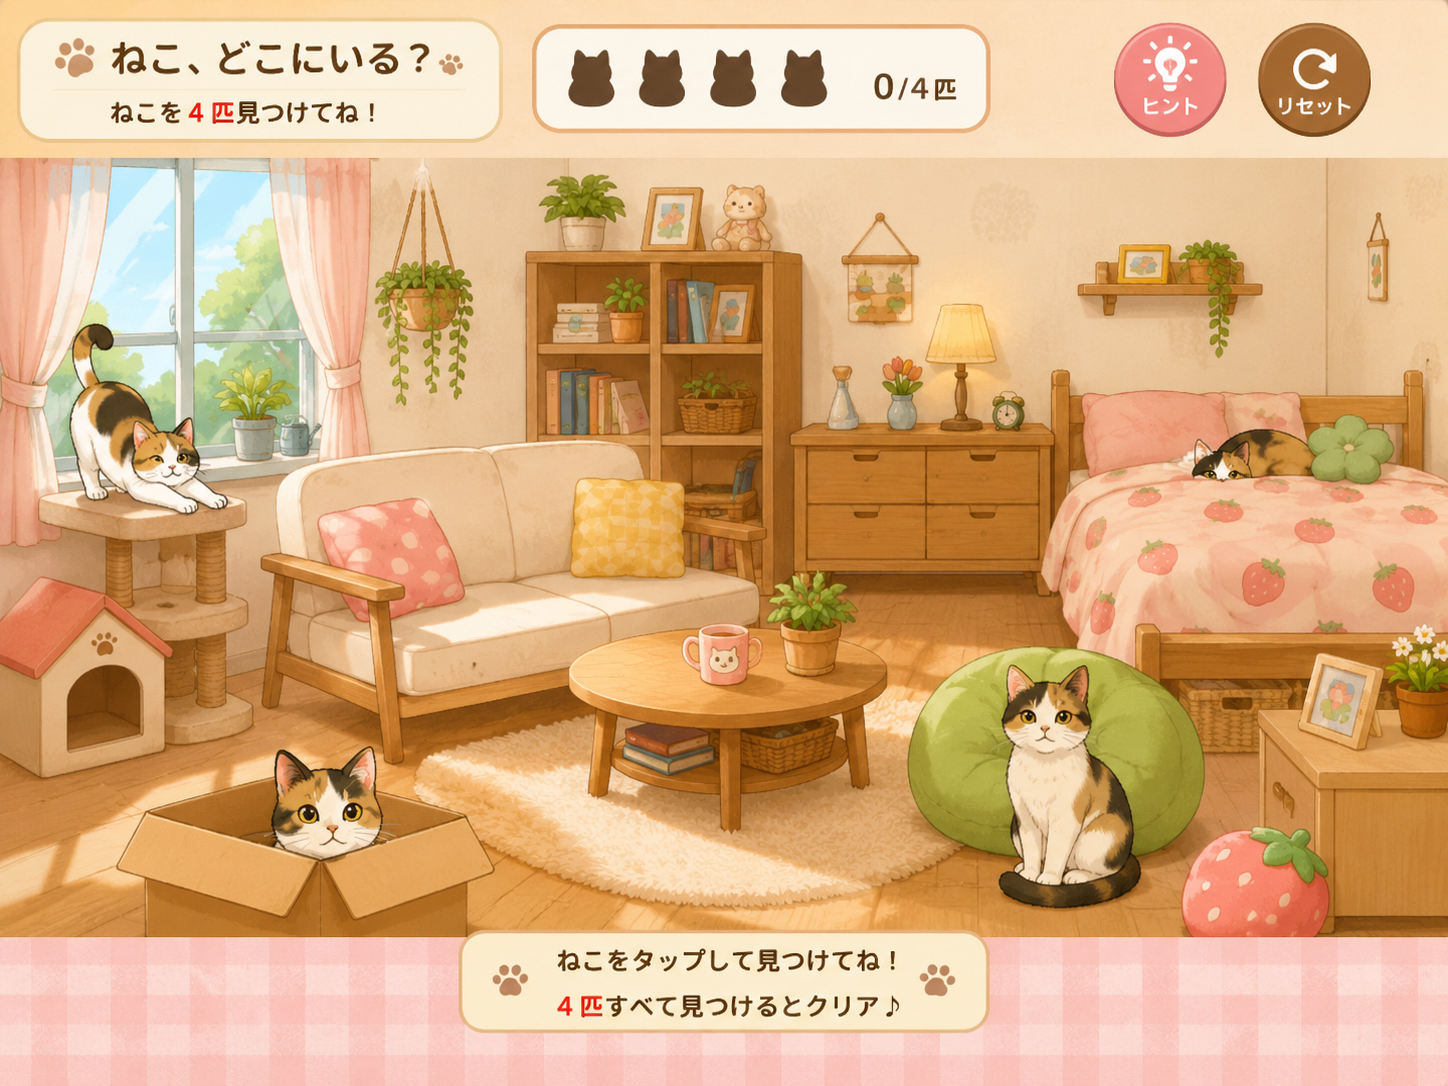
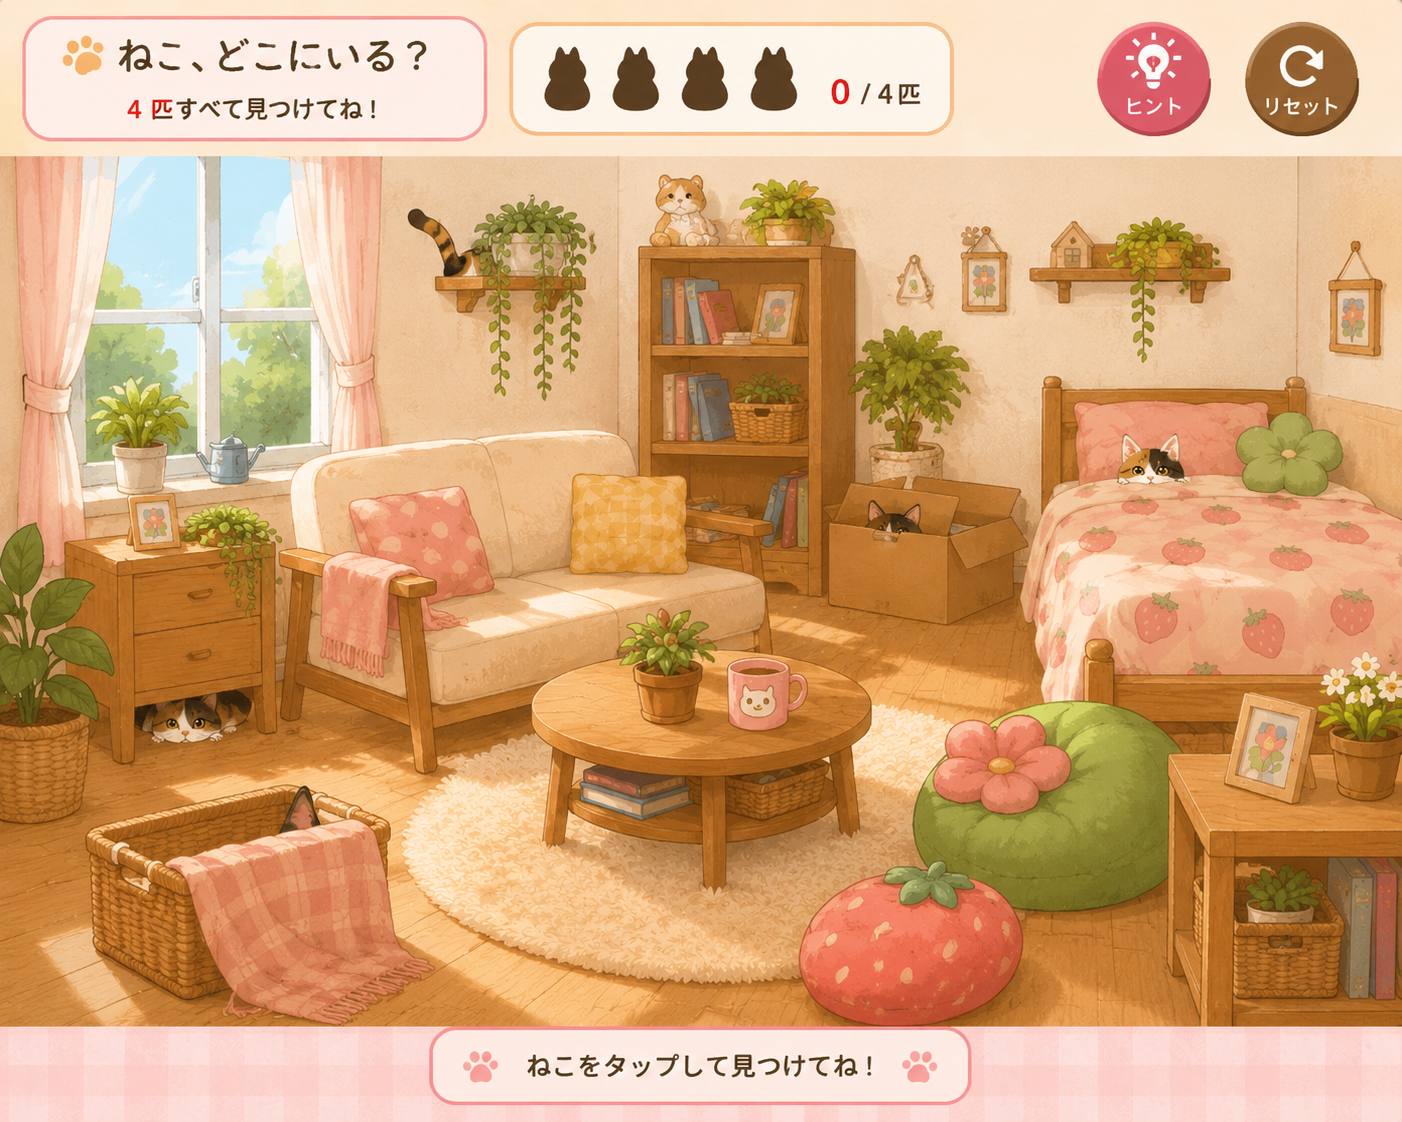
Add files via upload

diff --git a/script.js b/script.js
@@ -1,87 +1,83 @@
-const rooms=[
-  {key:'bedroom',name:'寝室',furniture:`
-    <div class="furniture window"><div class="curtain l"></div><div class="curtain r"></div><div class="windowSeat"></div></div>
-    <div class="furniture bed"><div class="back"></div><div class="pillow"></div><div class="blanket"></div></div>
-    <div class="furniture bookshelf"><div class="bookrow r1"><span></span><span></span><span></span><span></span></div><div class="bookrow r2"><span></span><span></span><span></span><span></span></div></div>
-    <div class="furniture catTree"><div class="pole a"></div><div class="pole b"></div><div class="platform top"></div><div class="platform mid"></div></div>
-    <div class="furniture catHouse"></div>`,
-    spots:[
-      {x:8,y:61,w:28,h:14,catX:20,catY:60},{x:39,y:28,w:34,h:13,catX:47,catY:30},{x:76,y:18,w:18,h:15,catX:80,catY:16},
-      {x:79,y:50,w:18,h:14,catX:82,catY:49},{x:62,y:45,w:13,h:13,catX:64,catY:42},{x:6,y:76,w:12,h:10,catX:7,catY:70},
-      {x:75,y:70,w:16,h:12,catX:77,catY:65},{x:45,y:68,w:18,h:10,catX:48,catY:63},{x:25,y:44,w:14,h:12,catX:25,catY:38},{x:86,y:34,w:11,h:13,catX:84,catY:31}
-    ]},
-  {key:'living',name:'リビング',furniture:`
-    <div class="furniture window"><div class="curtain l"></div><div class="curtain r"></div><div class="windowSeat"></div></div>
-    <div class="furniture sofa"></div><div class="furniture tv"></div><div class="furniture cabinet"></div><div class="furniture boxItem"></div>
-    <div class="furniture plant"><div class="leaf a"></div><div class="leaf b"></div><div class="leaf c"></div><div class="pot"></div></div>
-    <div class="furniture catTree"><div class="pole a"></div><div class="pole b"></div><div class="platform top"></div><div class="platform mid"></div></div>`,
-    spots:[
-      {x:9,y:50,w:35,h:14,catX:18,catY:47},{x:7,y:70,w:18,h:12,catX:9,catY:66},{x:48,y:50,w:26,h:11,catX:52,catY:45},
-      {x:52,y:24,w:20,h:20,catX:55,catY:23},{x:82,y:67,w:15,h:14,catX:84,catY:62},{x:72,y:49,w:18,h:20,catX:75,catY:45},
-      {x:64,y:18,w:14,h:13,catX:65,catY:14},{x:31,y:38,w:13,h:13,catX:31,catY:34},{x:85,y:35,w:11,h:12,catX:84,catY:31},{x:42,y:68,w:18,h:10,catX:45,catY:64}
-    ]},
-  {key:'kitchen',name:'キッチン',furniture:`
-    <div class="furniture kitchen"></div><div class="furniture fridge"></div><div class="furniture table"></div><div class="furniture chair"></div><div class="furniture basket"></div>
-    <div class="furniture plant"><div class="leaf a"></div><div class="leaf b"></div><div class="leaf c"></div><div class="pot"></div></div>`,
-    spots:[
-      {x:6,y:42,w:38,h:17,catX:17,catY:38},{x:8,y:67,w:20,h:13,catX:10,catY:63},{x:28,y:69,w:14,h:11,catX:29,catY:63},
-      {x:44,y:57,w:29,h:16,catX:51,catY:52},{x:58,y:42,w:12,h:16,catX:57,catY:39},{x:78,y:24,w:17,h:40,catX:80,catY:41},
-      {x:78,y:69,w:17,h:12,catX:80,catY:64},{x:55,y:72,w:18,h:11,catX:58,catY:66},{x:34,y:29,w:13,h:13,catX:34,catY:25},{x:67,y:22,w:12,h:15,catX:66,catY:20}
-    ]}
+const stages=[
+  {name:'寝室',img:'room1.png',spots:[
+    {x:20,y:45,w:14,h:14,cx:23,cy:39},{x:27,y:71,w:10,h:8,cx:25,cy:65},{x:45,y:29,w:12,h:11,cx:45,cy:28},{x:60,y:29,w:10,h:12,cx:59,cy:27},
+    {x:70,y:41,w:11,h:10,cx:71,cy:36},{x:82,y:42,w:13,h:12,cx:82,cy:39},{x:86,y:55,w:10,h:11,cx:86,cy:52},{x:79,y:12,w:13,h:12,cx:79,cy:10},
+    {x:63,y:16,w:15,h:14,cx:65,cy:13},{x:32,y:54,w:17,h:13,cx:34,cy:51},{x:53,y:56,w:14,h:12,cx:54,cy:53},{x:12,y:62,w:14,h:12,cx:13,cy:57}
+  ]},
+  {name:'リビング',img:'room2.png',spots:[
+    {x:3,y:28,w:14,h:17,cx:5,cy:28},{x:18,y:68,w:17,h:14,cx:19,cy:64},{x:64,y:58,w:15,h:18,cx:66,cy:54},{x:77,y:35,w:13,h:10,cx:78,cy:31},
+    {x:30,y:40,w:18,h:12,cx:33,cy:36},{x:45,y:48,w:14,h:12,cx:47,cy:43},{x:58,y:29,w:13,h:13,cx:59,cy:26},{x:86,y:69,w:12,h:12,cx:86,cy:63},
+    {x:8,y:58,w:12,h:10,cx:8,cy:53},{x:70,y:17,w:14,h:13,cx:71,cy:13},{x:40,y:69,w:17,h:10,cx:43,cy:64},{x:52,y:63,w:14,h:12,cx:53,cy:58}
+  ]},
+  {name:'キッチン',img:'room3.png',spots:[
+    {x:26,y:65,w:9,h:8,cx:25,cy:64},{x:45,y:31,w:10,h:10,cx:45,cy:30},{x:65,y:22,w:12,h:13,cx:66,cy:18},{x:82,y:52,w:12,h:11,cx:82,cy:49},
+    {x:88,y:72,w:10,h:10,cx:88,cy:69},{x:70,y:11,w:9,h:12,cx:70,cy:8},{x:14,y:20,w:12,h:10,cx:15,cy:15},{x:56,y:64,w:14,h:10,cx:57,cy:59},
+    {x:40,y:50,w:13,h:11,cx:40,cy:46},{x:76,y:64,w:13,h:12,cx:77,cy:59},{x:7,y:55,w:13,h:12,cx:8,cy:50},{x:60,y:41,w:12,h:11,cx:61,cy:36}
+  ]}
 ];
 
-const poses=['sit','stretch','peek','tailonly','loaf','boxpose','sit','peek','stretch','loaf'];
-let roomIndex=0,found=0,total=4,startTime=0,timerId=null,gameStarted=false;
-const scene=document.getElementById('scene'),roomLayer=document.getElementById('roomLayer'),spotLayer=document.getElementById('spotLayer'),catLayer=document.getElementById('catLayer');
-const stageName=document.getElementById('stageName'),foundEl=document.getElementById('found'),timerEl=document.getElementById('timer'),message=document.getElementById('message'),badges=document.getElementById('badges');
-const startPanel=document.getElementById('startPanel'),clearPanel=document.getElementById('clearPanel'),clearText=document.getElementById('clearText'),clearTitle=document.getElementById('clearTitle');
+const poses=['pose1','pose2','pose3','pose4','pose5','pose6','pose7','pose8','pose9','pose10'];
+let stage=0,found=0,total=4,start=0,timer=null,started=false;
+
+const room=document.getElementById('room'),spotsEl=document.getElementById('spots'),catsEl=document.getElementById('cats'),fx=document.getElementById('fx');
+const stageNow=document.getElementById('stageNow'),foundEl=document.getElementById('found'),timerEl=document.getElementById('timer'),message=document.getElementById('message'),poseList=document.getElementById('poseList');
+const startPanel=document.getElementById('startPanel'),clearPanel=document.getElementById('clearPanel'),clearTitle=document.getElementById('clearTitle'),clearText=document.getElementById('clearText');
 document.getElementById('total').textContent=total;
 
-function shuffle(a){return [...a].sort(()=>Math.random()-0.5)}
-function choice(a){return a[Math.floor(Math.random()*a.length)]}
+function shuffle(arr){return [...arr].sort(()=>Math.random()-0.5)}
+function pick(arr){return arr[Math.floor(Math.random()*arr.length)]}
+function timeText(ms){const sec=ms/1000;const m=Math.floor(sec/60);const s=(sec%60).toFixed(2).padStart(5,'0');return String(m).padStart(2,'0')+':'+s}
+function startTimer(){clearInterval(timer);start=performance.now();timer=setInterval(()=>timerEl.textContent=timeText(performance.now()-start),40)}
+function stopTimer(){clearInterval(timer)}
+function drawPoseDots(){poseList.innerHTML='';for(let i=0;i<total;i++){poseList.appendChild(document.createElement('span'))}}
+
 function makeCat(kind,pose){
   const cat=document.createElement('div');
   cat.className=`cat ${kind} ${pose}`;
-  cat.innerHTML=`<div class="tail"></div><div class="body"></div><div class="head"><div class="ear l"></div><div class="ear r"></div><div class="eye l"></div><div class="eye r"></div><div class="nose"></div><div class="spotmark"></div><div class="patch p1"></div><div class="patch p2"></div></div>`;
+  cat.innerHTML=`<div class="tail"></div><div class="body"></div><div class="head"><div class="ear l"></div><div class="ear r"></div><div class="eye l"></div><div class="eye r"></div><div class="nose"></div><div class="mouth">ω</div><div class="ruiMark"></div><div class="patch a"></div><div class="patch b"></div><div class="patch c"></div></div>`;
   return cat;
 }
-function drawBadges(){badges.innerHTML='';for(let i=0;i<total;i++){badges.appendChild(document.createElement('span'))}}
-function setTimer(on){clearInterval(timerId); if(on){startTime=performance.now();timerId=setInterval(()=>{timerEl.textContent=((performance.now()-startTime)/1000).toFixed(2)},50)}}
-function loadRoom(){
-  const r=rooms[roomIndex];
-  scene.className=`scene ${r.key}`;
-  roomLayer.innerHTML=r.furniture;
-  spotLayer.innerHTML=''; catLayer.innerHTML='';
-  stageName.textContent=r.name; found=0; foundEl.textContent=0; message.textContent='隠れそうな場所をタップしてね。';
-  drawBadges(); clearPanel.classList.add('hidden'); setTimer(true);
-  const selected=shuffle(r.spots).slice(0,total);
-  selected.forEach((s,i)=>{
-    const spot=document.createElement('button');
-    spot.className='spot';
-    spot.style.left=s.x+'%';spot.style.top=s.y+'%';spot.style.width=s.w+'%';spot.style.height=s.h+'%';
+
+function sparkle(x,y){
+  const s=document.createElement('div');
+  s.className='spark';s.textContent='✨';s.style.left=x+'px';s.style.top=y+'px';
+  fx.appendChild(s);setTimeout(()=>s.remove(),800);
+}
+
+function loadStage(){
+  const data=stages[stage];
+  found=0;foundEl.textContent=0;stageNow.textContent=stage+1;room.src=data.img;
+  spotsEl.innerHTML='';catsEl.innerHTML='';fx.innerHTML='';clearPanel.classList.add('hidden');drawPoseDots();
+  message.textContent=`${data.name}：4匹を探してね。`;
+  startTimer();
+  const chosen=shuffle(data.spots).slice(0,total);
+  chosen.forEach((sp,i)=>{
+    const btn=document.createElement('button');
+    btn.className='spot';
+    btn.style.left=sp.x+'%';btn.style.top=sp.y+'%';btn.style.width=sp.w+'%';btn.style.height=sp.h+'%';
     const kind=Math.random()<0.5?'rui':'mai';
-    const pose=choice(poses);
-    const cat=makeCat(kind,pose);
-    cat.style.left=s.catX+'%';cat.style.top=s.catY+'%';
-    catLayer.appendChild(cat);
-    spot.addEventListener('click',()=>{
-      if(spot.disabled)return;
-      spot.disabled=true;
-      cat.classList.add('show');
-      found++; foundEl.textContent=found;
-      badges.children[found-1].classList.add('on');
+    const cat=makeCat(kind,pick(poses));
+    cat.style.left=sp.cx+'%';cat.style.top=sp.cy+'%';
+    catsEl.appendChild(cat);
+    btn.addEventListener('click',()=>{
+      if(btn.disabled)return;
+      btn.disabled=true;cat.classList.add('show');
+      found++;foundEl.textContent=found;poseList.children[found-1].classList.add('on');
+      const r=btn.getBoundingClientRect(),sr=document.getElementById('scene').getBoundingClientRect();
+      sparkle(r.left-sr.left+r.width/2,r.top-sr.top+r.height/2);
       message.textContent=`${kind==='rui'?'るいたん':'まいたん'}発見！ にゃ！ あと${total-found}匹。`;
       if(found===total){
-        setTimer(false);
+        stopTimer();
         const t=timerEl.textContent;
-        clearTitle.textContent=roomIndex===rooms.length-1?'ALL CLEAR!':'CLEAR!';
-        clearText.textContent=roomIndex===rooms.length-1?`全部の部屋クリア！タイム ${t} 秒`:`${r.name}クリア！タイム ${t} 秒`;
-        setTimeout(()=>clearPanel.classList.remove('hidden'),600);
+        clearTitle.textContent=stage===stages.length-1?'ALL CLEAR!':'CLEAR!';
+        clearText.textContent=stage===stages.length-1?`全部クリア！タイム ${t}`:`${data.name}クリア！タイム ${t}`;
+        setTimeout(()=>clearPanel.classList.remove('hidden'),550);
       }
     });
-    spotLayer.appendChild(spot);
+    spotsEl.appendChild(btn);
   });
 }
-document.getElementById('startBtn').addEventListener('click',()=>{startPanel.classList.add('hidden');gameStarted=true;roomIndex=0;loadRoom()});
-document.getElementById('nextBtn').addEventListener('click',()=>{if(roomIndex===rooms.length-1){roomIndex=0}else{roomIndex++}loadRoom()});
-document.getElementById('reset').addEventListener('click',()=>{if(!gameStarted){return}loadRoom()});
+
+document.getElementById('startBtn').addEventListener('click',()=>{started=true;startPanel.classList.add('hidden');stage=0;loadStage();});
+document.getElementById('nextBtn').addEventListener('click',()=>{stage=stage===stages.length-1?0:stage+1;loadStage();});
+document.getElementById('resetBtn').addEventListener('click',()=>{if(started)loadStage();});

diff --git a/index.html b/index.html
@@ -9,57 +9,56 @@
 <body>
   <main class="app">
     <section class="game">
-      <div class="top">
-        <div class="brand">
-          <div class="jar">🍓</div>
+      <div class="hud">
+        <div class="title">
+          <div class="logo">🐾</div>
           <div>
             <h1>るいとまいの<br class="sp">かくれんぼ</h1>
-            <p>JamSuki Studio</p>
+            <p>JamSuki Studio 🍓</p>
           </div>
         </div>
-        <div class="meter">
-          <span>部屋</span>
-          <b id="stageName">寝室</b>
+
+        <div class="pill">
+          <span>ステージ</span>
+          <strong><b id="stageNow">1</b> / 3</strong>
         </div>
-        <div class="meter">
-          <span>見つけた</span>
-          <b><i id="found">0</i>/<i id="total">4</i></b>
+        <div class="pill">
+          <span>みつけた数</span>
+          <strong><b id="found">0</b> / <b id="total">4</b></strong>
         </div>
-        <div class="meter">
-          <span>TIME</span>
-          <b id="timer">0.00</b>
+        <div class="pill time">
+          <span>タイム</span>
+          <strong id="timer">00:00.00</strong>
         </div>
-        <button id="reset" class="reset">↻</button>
+        <button id="resetBtn" class="circle">↻</button>
       </div>
 
-      <div id="scene" class="scene bedroom">
-        <div class="wall"></div>
-        <div class="floor"></div>
-        <div id="roomLayer"></div>
-        <div id="spotLayer"></div>
-        <div id="catLayer"></div>
-        <div id="effectLayer"></div>
+      <div id="scene" class="scene">
+        <img id="room" src="room1.png" class="room" alt="かわいい部屋">
+        <div id="spots"></div>
+        <div id="cats"></div>
+        <div id="fx"></div>
 
-        <div id="startPanel" class="panel">
-          <div class="panel-inner">
+        <div id="startPanel" class="overlay">
+          <div class="modal">
             <h2>るいとまいを探そう</h2>
-            <p>毎回ちがう場所に4匹かくれるよ。<br>部屋は3つ。全部見つけるまでのタイムを競おう。</p>
+            <p>毎回ちがう場所に4匹かくれるよ。<br>ポーズは10種類。見つけたら「にゃ！」</p>
             <button id="startBtn">START 🐾</button>
           </div>
         </div>
 
-        <div id="clearPanel" class="panel hidden">
-          <div class="panel-inner">
+        <div id="clearPanel" class="overlay hidden">
+          <div class="modal">
             <h2 id="clearTitle">CLEAR!</h2>
-            <p id="clearText"></p>
-            <button id="nextBtn">次の部屋へ</button>
+            <p id="clearText">次のステージへ進もう。</p>
+            <button id="nextBtn">次のステージへ</button>
           </div>
         </div>
       </div>
 
       <div class="bottom">
         <p id="message">STARTを押してね。</p>
-        <div class="stars" id="badges"></div>
+        <div id="poseList" class="pose-list"></div>
       </div>
     </section>
   </main>

diff --git a/style.css b/style.css
@@ -1,16 +1,28 @@
 *{box-sizing:border-box}
-html,body{margin:0;min-height:100%;font-family:system-ui,-apple-system,BlinkMacSystemFont,"Hiragino Sans","Yu Gothic",sans-serif;background:#fff1e4;color:#57382b}
-body{padding:10px}.app{max-width:1120px;margin:0 auto}.game{border:3px solid #e2ad78;border-radius:24px;overflow:hidden;background:#fff8ed;box-shadow:0 18px 38px #72431d24}
-.top{display:flex;align-items:center;gap:10px;padding:12px;background:#fff8ed;border-bottom:2px solid #e9c093}.brand{display:flex;align-items:center;gap:10px;min-width:255px}.jar{font-size:34px}h1{font-size:27px;line-height:1;margin:0;font-weight:1000}.brand p{margin:4px 0 0;color:#9d6347;font-weight:900}.meter{background:white;border:2px solid #edc59b;border-radius:16px;min-width:96px;text-align:center;padding:7px 10px}.meter span{display:block;font-size:11px;font-weight:900;color:#86644e}.meter b{font-size:22px;color:#d66561;font-style:normal}.meter i{font-style:normal}.reset{margin-left:auto;width:54px;height:54px;border:0;border-radius:50%;background:#ef7b74;color:white;font-size:28px;font-weight:1000;box-shadow:0 5px 0 #bd5b55;cursor:pointer}
-.scene{position:relative;aspect-ratio:16/10;overflow:hidden;background:#ffe7cf}.wall{position:absolute;inset:0 0 34% 0;background:linear-gradient(#fff1dd,#ffe2d5)}.floor{position:absolute;left:0;right:0;bottom:0;height:36%;background:repeating-linear-gradient(90deg,#c58a56 0 65px,#b97b45 65px 68px);border-top:5px solid #a86e3e}
-.furniture{position:absolute;z-index:2}.window{left:42%;top:8%;width:28%;height:30%;background:linear-gradient(#aee6ff 0 60%,#bee8a8 60%);border:7px solid #b77b49;border-radius:16px;box-shadow:0 8px 0 #8b582f}.window:before{content:"";position:absolute;left:50%;top:0;bottom:0;width:5px;background:#b77b49}.window:after{content:"";position:absolute;left:0;right:0;top:50%;height:5px;background:#b77b49}.curtain{position:absolute;top:-8%;height:118%;width:20%;background:linear-gradient(90deg,#f19aa0,#ffd0d2,#f19aa0);border:4px solid #c77c79;border-radius:18px}.curtain.l{left:-17%}.curtain.r{right:-17%}.windowSeat{position:absolute;left:-7%;right:-7%;bottom:-15%;height:18%;background:#efb3ad;border:4px solid #ad704a;border-radius:0 0 18px 18px}
-.bed{left:5%;bottom:17%;width:38%;height:28%}.bed .back{position:absolute;left:0;right:0;bottom:17%;height:70%;background:#b87948;border:5px solid #7c502d;border-radius:24px 24px 10px 10px}.bed .blanket{position:absolute;left:8%;right:0;bottom:4%;height:50%;background:repeating-linear-gradient(45deg,#ffc4ca 0 22px,#ffd9dc 22px 44px);border:4px solid #de8f91;border-radius:18px;z-index:2}.bed .pillow{position:absolute;left:12%;top:21%;width:24%;height:25%;background:#fff5df;border-radius:16px;z-index:3}.bookshelf{right:4%;bottom:17%;width:20%;height:48%;background:#b3723d;border:5px solid #754a29;border-radius:12px;box-shadow:0 8px 0 #8b592f}.bookshelf:before,.bookshelf:after{content:"";position:absolute;left:0;right:0;height:5px;background:#754a29}.bookshelf:before{top:34%}.bookshelf:after{top:66%}.bookrow{position:absolute;left:10%;right:10%;height:18%;display:flex;gap:5px;align-items:flex-end}.bookrow.r1{top:11%}.bookrow.r2{top:44%}.bookrow span{width:16%;border-radius:4px 4px 0 0}.bookrow span:nth-child(1){height:70%;background:#e16c66}.bookrow span:nth-child(2){height:85%;background:#f4c15d}.bookrow span:nth-child(3){height:62%;background:#6bb2a8}.bookrow span:nth-child(4){height:80%;background:#9a7bd0}
-.sofa{left:7%;bottom:19%;width:38%;height:25%;background:#f0aaa9;border:5px solid #b96f68;border-radius:24px 24px 15px 15px}.sofa:before{content:"";position:absolute;left:7%;right:7%;top:18%;height:45%;background:#ffd0d2;border-radius:18px}.tv{left:50%;bottom:28%;width:24%;height:22%;background:#4c5966;border:6px solid #2d333a;border-radius:14px}.tv:after{content:"";position:absolute;left:40%;bottom:-30%;width:20%;height:30%;background:#2d333a}.cabinet{left:46%;bottom:17%;width:32%;height:10%;background:#b87948;border:5px solid #7c502d;border-radius:10px}.boxItem{right:7%;bottom:15%;width:13%;height:15%;background:#d7aa72;border:5px solid #9b6938;border-radius:9px}.plant{right:24%;bottom:18%;width:11%;height:28%}.plant .pot{position:absolute;bottom:0;left:22%;width:56%;height:25%;background:#f4e3cf;border:4px solid #c5a88d;border-radius:0 0 16px 16px}.leaf{position:absolute;bottom:24%;width:34%;height:45%;background:#70aa54;border:3px solid #4f7c39;border-radius:50% 50% 10% 50%}.leaf.a{left:10%;transform:rotate(-35deg)}.leaf.b{left:36%;height:55%;transform:rotate(-5deg)}.leaf.c{left:56%;transform:rotate(28deg)}
-.fridge{right:7%;bottom:17%;width:16%;height:47%;background:#f3efe6;border:6px solid #bba897;border-radius:18px}.fridge:before{content:"";position:absolute;left:0;right:0;top:42%;height:5px;background:#bba897}.kitchen{left:5%;bottom:17%;width:40%;height:33%;background:#f6c181;border:5px solid #a66f38;border-radius:16px}.kitchen:before{content:"";position:absolute;left:8%;top:-38%;width:76%;height:35%;background:#f8d9aa;border:5px solid #a66f38;border-radius:12px}.table{left:45%;bottom:20%;width:26%;height:15%;background:#b97847;border-radius:50%;border:5px solid #7c502d}.chair{left:58%;bottom:36%;width:11%;height:16%;background:#d59c65;border:4px solid #8a5a31;border-radius:14px}.basket{left:28%;bottom:16%;width:13%;height:12%;background:#d8aa74;border:5px solid #9b6938;border-radius:50%}
-.catTree{right:27%;bottom:18%;width:13%;height:40%}.pole{position:absolute;bottom:0;width:12%;background:#d1ae82;border:4px solid #936b42;border-radius:8px}.pole.a{left:32%;height:100%}.pole.b{left:63%;height:60%}.platform{position:absolute;background:#c98748;border:4px solid #8a5b31;border-radius:50%}.platform.top{left:2%;top:0;width:86%;height:13%}.platform.mid{left:0;top:38%;width:76%;height:12%}.catHouse{left:5%;bottom:14%;width:10%;height:13%;background:#ef6d7a;border:4px solid #c64c58;border-radius:45% 45% 10px 10px}
-.spot{position:absolute;z-index:12;border:0;background:rgba(255,255,255,0);border-radius:16px;cursor:pointer}.spot:hover,.spot:focus-visible{outline:4px solid #ff867d;background:#ffffff25}
-.cat{position:absolute;z-index:20;display:none;transform-origin:50% 90%;filter:drop-shadow(0 8px 10px #0003)}.cat.show{display:block;animation:nya .48s ease}.cat .body{position:absolute;background:var(--fur);border:4px solid #5e3b2b}.cat .head{position:absolute;background:var(--fur);border:4px solid #5e3b2b;border-radius:50%}.cat .ear{position:absolute;width:24%;height:24%;background:var(--fur);border:4px solid #5e3b2b;transform:rotate(45deg);border-radius:5px}.cat .eye{position:absolute;width:8%;height:10%;background:#332119;border-radius:50%;top:45%}.cat .eye.l{left:36%}.cat .eye.r{right:28%}.cat .nose{position:absolute;left:49%;top:58%;width:9%;height:7%;background:#eea4a6;border-radius:50%}.cat.rui .spotmark{position:absolute;left:56%;top:64%;width:8%;height:9%;background:#241914;border-radius:50%}.cat.mai .patch{position:absolute;background:#c98346;border-radius:50%;opacity:.95}.tail{position:absolute;background:var(--fur);border:4px solid #5e3b2b;border-radius:999px}.sit{width:88px;height:78px}.sit .body{left:18%;top:32%;width:58%;height:54%;border-radius:45% 45% 40% 40%}.sit .head{left:38%;top:5%;width:46%;height:48%}.sit .ear.l{left:42%;top:0}.sit .ear.r{left:66%;top:2%}.sit .tail{left:3%;top:50%;width:40%;height:18%;transform:rotate(25deg)}.stretch{width:110px;height:54px}.stretch .body{left:18%;top:30%;width:68%;height:45%;border-radius:999px}.stretch .head{left:0;top:14%;width:34%;height:60%}.stretch .ear.l{left:5%;top:2%}.stretch .ear.r{left:20%;top:3%}.stretch .tail{right:0;top:24%;width:36%;height:14%;transform:rotate(-35deg)}.peek{width:76px;height:64px}.peek .body{display:none}.peek .head{left:16%;top:18%;width:68%;height:70%}.peek .ear.l{left:21%;top:6%}.peek .ear.r{right:18%;top:6%}.tailonly{width:90px;height:50px}.tailonly .body,.tailonly .head,.tailonly .ear,.tailonly .eye,.tailonly .nose,.tailonly .spotmark,.tailonly .patch{display:none}.tailonly .tail{left:10%;top:35%;width:80%;height:24%;transform:rotate(-22deg)}.loaf{width:96px;height:62px}.loaf .body{left:5%;top:24%;width:82%;height:55%;border-radius:999px}.loaf .head{left:55%;top:15%;width:38%;height:50%}.loaf .ear.l{left:61%;top:4%}.loaf .ear.r{left:78%;top:5%}.boxpose{width:90px;height:82px}.boxpose:before{content:"";position:absolute;left:7%;right:7%;bottom:0;height:50%;background:#d7aa72;border:4px solid #9b6938;border-radius:8px;z-index:4}.boxpose .body{display:none}.boxpose .head{left:24%;top:8%;width:52%;height:52%;z-index:3}.boxpose .ear.l{left:29%;top:0}.boxpose .ear.r{left:55%;top:0}.patch.p1{left:8%;top:8%;width:26%;height:22%}.patch.p2{right:0;top:20%;width:24%;height:30%;background:#222}.cat.mai{--fur:#fff4e5}.cat.rui{--fur:#fff}.cat.show:after{content:"にゃ!";position:absolute;left:60%;top:-28px;background:#fff8e8;border:3px solid #ef9b95;border-radius:999px;padding:3px 10px;font-weight:1000;color:#d75e58;white-space:nowrap}@keyframes nya{0%{transform:scale(.4) translateY(20px);opacity:0}60%{transform:scale(1.08) translateY(-4px);opacity:1}100%{transform:scale(1) translateY(0);opacity:1}}
-#effects{position:absolute;inset:0;z-index:30;pointer-events:none}.spark{position:absolute;font-size:28px;animation:spark .8s ease-out forwards}@keyframes spark{0%{opacity:0;transform:scale(.2)}40%{opacity:1;transform:translateY(-30px) scale(1.2)}100%{opacity:0;transform:translateY(-80px) scale(.8)}}
-.panel{position:absolute;inset:0;z-index:50;display:flex;align-items:center;justify-content:center;background:#fff3e677;text-align:center}.panel.hidden{display:none}.panel-inner{background:#fff8ec;border:3px solid #e2ad78;border-radius:24px;padding:28px;max-width:520px;box-shadow:0 12px 30px #72431d22}.panel h2{font-size:42px;margin:0 0 12px}.panel p{font-size:18px;line-height:1.7}.panel button{border:0;border-radius:999px;background:#ef7b74;color:white;font-size:22px;font-weight:1000;padding:14px 30px;box-shadow:0 6px 0 #bd5b55}.bottom{display:flex;align-items:center;justify-content:space-between;gap:10px;padding:12px 18px;background:#fff8ed;border-top:2px solid #e9c093}.bottom p{margin:0;font-size:18px;font-weight:1000}.stars{display:flex;gap:5px}.stars span{width:28px;height:28px;border-radius:50%;background:#f0d2ad;display:block}.stars span.on{background:#ef7b74;box-shadow:0 0 0 4px #ef7b7430}
-@media(max-width:760px){body{padding:4px}.game{border-radius:16px}.top{gap:5px;padding:7px}.brand{min-width:126px}.jar{font-size:22px}h1{font-size:17px}.brand p{font-size:10px}.meter{min-width:62px;padding:4px}.meter span{font-size:9px}.meter b{font-size:16px}.reset{width:38px;height:38px;font-size:20px}.scene{aspect-ratio:4/3}.bottom{padding:9px}.bottom p{font-size:13px}.stars span{width:18px;height:18px}.cat{transform:scale(.78);transform-origin:top left}.panel h2{font-size:30px}.panel p{font-size:15px}.panel-inner{margin:12px;padding:20px}.sp{display:block}}
+html,body{margin:0;min-height:100%;font-family:system-ui,-apple-system,BlinkMacSystemFont,"Hiragino Sans","Yu Gothic",sans-serif;background:#fff1e5;color:#5d3a2d}
+body{padding:8px}.app{max-width:1200px;margin:0 auto}.game{background:#fff8ec;border:3px solid #ebb57d;border-radius:24px;overflow:hidden;box-shadow:0 18px 40px #7b46271f}
+.hud{height:92px;display:flex;align-items:center;gap:10px;padding:10px 14px;background:#fff8ec;border-bottom:2px solid #e9c092}.title{display:flex;align-items:center;gap:10px;min-width:260px}.logo{font-size:34px}h1{font-size:27px;line-height:1;margin:0;font-weight:1000}.title p{margin:4px 0 0;font-weight:900;color:#9c6046}.pill{background:white;border:2px solid #edc392;border-radius:16px;min-width:104px;text-align:center;padding:7px 10px}.pill span{display:block;font-size:11px;font-weight:900;color:#86654f}.pill strong{font-size:23px;color:#d86762}.pill.time{min-width:150px}.circle{margin-left:auto;width:56px;height:56px;border:0;border-radius:50%;background:#ee7d76;color:#fff;font-size:28px;font-weight:1000;box-shadow:0 5px 0 #bd5852;cursor:pointer}.circle:active{transform:translateY(4px);box-shadow:0 1px 0 #bd5852}
+.scene{position:relative;width:100%;aspect-ratio:16/10;overflow:hidden;background:#f4d0a7}.room{display:block;width:100%;height:100%;object-fit:cover}
+#spots,#cats,#fx{position:absolute;inset:0}.spot{position:absolute;z-index:15;border:0;background:rgba(255,255,255,0);border-radius:50%;cursor:pointer}.spot:hover,.spot:focus-visible{outline:4px solid #ff867d;background:rgba(255,255,255,.14)}
+.cat{position:absolute;z-index:20;display:none;filter:drop-shadow(0 8px 10px #0003);transform-origin:50% 90%}.cat.show{display:block;animation:nya .45s ease}.cat.show:after{content:"にゃ!";position:absolute;left:62%;top:-22px;background:#fff8e9;border:3px solid #ef918b;border-radius:999px;padding:3px 9px;font-size:14px;font-weight:1000;color:#db645e;white-space:nowrap}
+.cat .body,.cat .head,.cat .tail,.cat .ear{position:absolute;background:var(--fur);border:4px solid #5b3829}.cat .head{border-radius:50%}.cat .ear{width:24%;height:24%;transform:rotate(45deg);border-radius:5px}.cat .eye{position:absolute;width:8%;height:10%;background:#2e1f18;border-radius:50%;top:45%}.cat .eye.l{left:34%}.cat .eye.r{right:29%}.cat .nose{position:absolute;left:49%;top:57%;width:9%;height:7%;background:#ee9fa2;border-radius:50%}.cat .mouth{position:absolute;left:49%;top:64%;font-size:13px}.cat .ruiMark{display:none;position:absolute;left:57%;top:64%;width:7%;height:8%;background:#1f1712;border-radius:50%}.cat.rui .ruiMark{display:block}.cat.mai .patch{position:absolute;border-radius:50%;display:block}.patch{display:none}.patch.a{left:5%;top:4%;width:30%;height:24%;background:#d48a45}.patch.b{right:-3%;top:19%;width:26%;height:32%;background:#201711}.patch.c{left:42%;bottom:-2%;width:28%;height:22%;background:#d48a45}
+.cat.rui{--fur:#fffdf5}.cat.mai{--fur:#fff3df}
+
+/* 10 poses */
+.pose1{width:86px;height:82px}.pose1 .body{left:17%;top:35%;width:58%;height:52%;border-radius:45%}.pose1 .head{left:38%;top:7%;width:46%;height:47%}.pose1 .ear.l{left:43%;top:1%}.pose1 .ear.r{left:67%;top:3%}.pose1 .tail{left:2%;top:50%;width:42%;height:17%;border-radius:999px;transform:rotate(22deg)}
+.pose2{width:86px;height:82px}.pose2 .body{left:20%;top:35%;width:58%;height:52%;border-radius:45%}.pose2 .head{left:10%;top:7%;width:46%;height:47%}.pose2 .ear.l{left:16%;top:1%}.pose2 .ear.r{left:38%;top:3%}.pose2 .tail{right:0;top:48%;width:44%;height:18%;border-radius:999px;transform:rotate(-30deg)}
+.pose3{width:115px;height:56px}.pose3 .body{left:18%;top:32%;width:66%;height:43%;border-radius:999px}.pose3 .head{left:0;top:14%;width:34%;height:62%}.pose3 .ear.l{left:5%;top:3%}.pose3 .ear.r{left:21%;top:5%}.pose3 .tail{right:0;top:24%;width:36%;height:14%;border-radius:999px;transform:rotate(-35deg)}
+.pose4{width:90px;height:62px}.pose4 .body{display:none}.pose4 .head{left:17%;top:18%;width:66%;height:70%}.pose4 .ear.l{left:22%;top:6%}.pose4 .ear.r{right:18%;top:6%}.pose4 .tail{display:none}
+.pose5{width:100px;height:62px}.pose5 .body{left:5%;top:27%;width:80%;height:52%;border-radius:999px}.pose5 .head{left:55%;top:14%;width:38%;height:52%}.pose5 .ear.l{left:61%;top:4%}.pose5 .ear.r{left:79%;top:5%}.pose5 .tail{left:3%;top:42%;width:28%;height:15%;border-radius:999px;transform:rotate(20deg)}
+.pose6{width:95px;height:80px}.pose6:before{content:"";position:absolute;left:7%;right:7%;bottom:0;height:48%;background:#d8aa72;border:4px solid #976739;border-radius:8px;z-index:4}.pose6 .body{display:none}.pose6 .head{left:25%;top:8%;width:50%;height:52%;z-index:3}.pose6 .ear.l{left:30%;top:0}.pose6 .ear.r{left:55%;top:0}.pose6 .tail{display:none}
+.pose7{width:90px;height:60px}.pose7 .body,.pose7 .head,.pose7 .ear,.pose7 .eye,.pose7 .nose,.pose7 .mouth,.pose7 .ruiMark,.pose7 .patch{display:none}.pose7 .tail{left:12%;top:34%;width:75%;height:24%;border-radius:999px;transform:rotate(-24deg)}
+.pose8{width:75px;height:100px}.pose8 .body{left:20%;top:32%;width:56%;height:58%;border-radius:45%}.pose8 .head{left:20%;top:5%;width:55%;height:46%}.pose8 .ear.l{left:27%;top:0}.pose8 .ear.r{left:55%;top:1%}.pose8 .tail{right:0;top:50%;width:23%;height:42%;border-radius:999px;transform:rotate(12deg)}
+.pose9{width:105px;height:80px}.pose9 .body{left:15%;top:42%;width:65%;height:37%;border-radius:999px}.pose9 .head{left:50%;top:12%;width:38%;height:48%}.pose9 .ear.l{left:57%;top:4%}.pose9 .ear.r{left:76%;top:4%}.pose9 .tail{left:4%;top:48%;width:35%;height:16%;border-radius:999px;transform:rotate(35deg)}
+.pose10{width:98px;height:70px}.pose10 .body{display:none}.pose10 .head{left:24%;top:8%;width:52%;height:58%}.pose10 .ear.l{left:29%;top:0}.pose10 .ear.r{left:56%;top:0}.pose10:before{content:"";position:absolute;left:0;right:0;bottom:0;height:32%;background:#f2d1b2;border:4px solid #b07b4e;border-radius:10px;z-index:4}.pose10 .tail{right:2%;top:48%;width:33%;height:14%;border-radius:999px;transform:rotate(-25deg);z-index:5}
+
+@keyframes nya{0%{transform:scale(.35) translateY(20px);opacity:0}60%{transform:scale(1.08) translateY(-5px);opacity:1}100%{transform:scale(1) translateY(0);opacity:1}}
+.spark{position:absolute;z-index:30;font-size:30px;animation:spark .75s ease-out forwards;pointer-events:none}@keyframes spark{0%{opacity:0;transform:translate(-50%,-50%) scale(.2)}35%{opacity:1;transform:translate(-50%,-80%) scale(1.25)}100%{opacity:0;transform:translate(-50%,-140%) scale(.75)}}
+.overlay{position:absolute;inset:0;z-index:50;display:flex;align-items:center;justify-content:center;background:#fff3e677;text-align:center}.overlay.hidden{display:none}.modal{background:#fff8ec;border:3px solid #e4ad76;border-radius:24px;padding:28px;max-width:520px;box-shadow:0 14px 30px #72431d24}.modal h2{font-size:42px;margin:0 0 12px}.modal p{font-size:18px;line-height:1.7}.modal button{border:0;border-radius:999px;background:#ef7b74;color:white;font-size:22px;font-weight:1000;padding:14px 30px;box-shadow:0 6px 0 #bd5b55;cursor:pointer}
+.bottom{display:flex;align-items:center;justify-content:space-between;gap:8px;padding:12px 18px;background:#fff8ec;border-top:2px solid #e9c092}.bottom p{margin:0;font-size:18px;font-weight:1000}.pose-list{display:flex;gap:5px;flex-wrap:wrap;justify-content:flex-end}.pose-list span{width:24px;height:24px;border-radius:50%;background:#efcfaa;display:block}.pose-list span.on{background:#ef7b74;box-shadow:0 0 0 4px #ef7b7430}
+@media(max-width:760px){body{padding:4px}.game{border-radius:16px}.hud{height:72px;gap:5px;padding:7px}.title{min-width:128px}.logo{font-size:22px}h1{font-size:17px}.title p{font-size:10px}.pill{min-width:58px;padding:4px}.pill span{font-size:9px}.pill strong{font-size:16px}.pill.time{min-width:74px}.circle{width:38px;height:38px;font-size:20px}.scene{aspect-ratio:4/3}.bottom{padding:9px}.bottom p{font-size:13px}.pose-list span{width:17px;height:17px}.cat{transform:scale(.72);transform-origin:top left}.modal{margin:12px;padding:20px}.modal h2{font-size:30px}.modal p{font-size:15px}.sp{display:block}}
 @media(min-width:761px){.sp{display:none}}